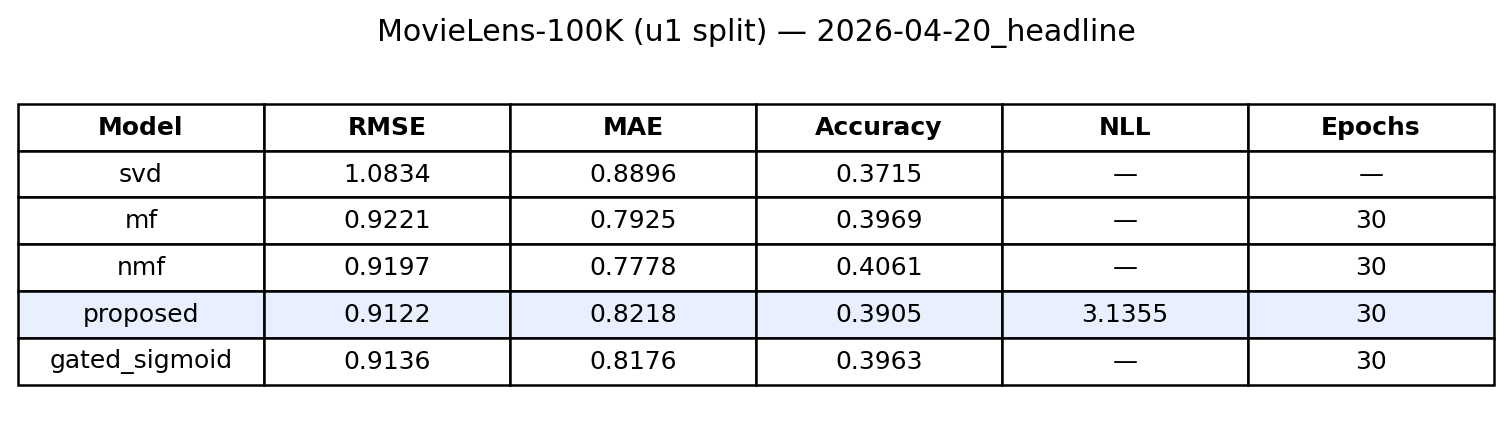
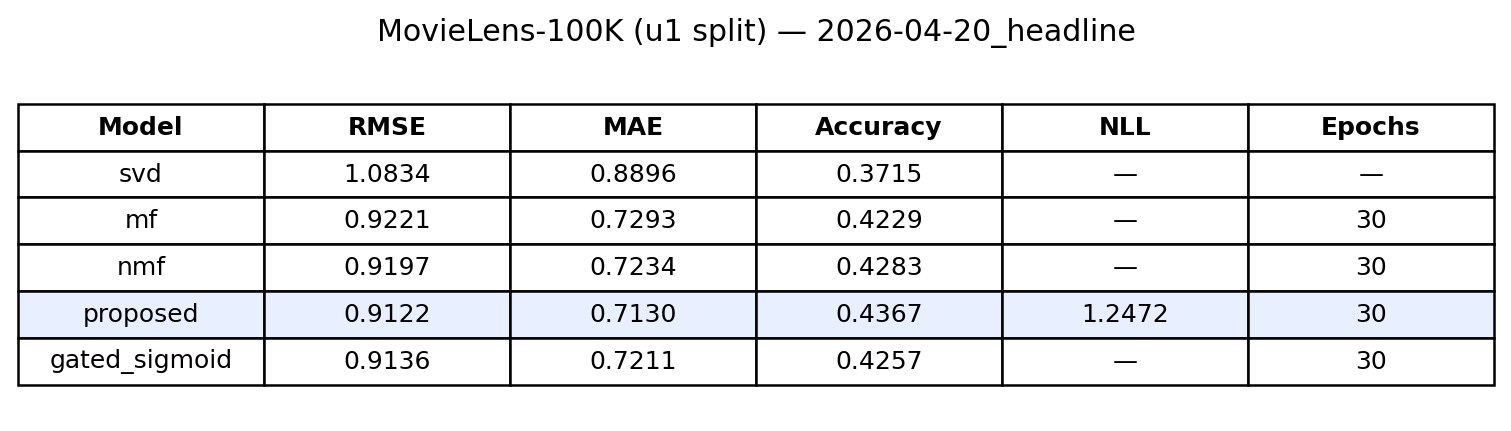
fix: report headline metrics from best-RMSE epoch, not final epoch
train_model now returns best_metrics — the full metrics snapshot at
the best-RMSE epoch (the weights we actually restore into the model).
main.py and render_results.py read the headline row from best_metrics
instead of history[-1].

Root cause of the bug: with patience=30 (early stopping disabled),
the proposed model overfits after epoch ~4 — train loss 1.33 → 0.17,
test NLL 1.28 → 3.14. We were keeping epoch-4 weights but reporting
epoch-30 numbers, so the headline NLL was 3.14 (worse than uniform)
even though the restored model's NLL is 1.25 (comfortably below
uniform 1.61). MAE and accuracy had the same issue.

Corrected headline (u1 split, 2026-04-20_headline re-rendered):
  proposed       RMSE=0.9122 MAE=0.7130 Acc=0.4367 NLL=1.2472
  gated_sigmoid  RMSE=0.9136 MAE=0.7211 Acc=0.4257
  nmf            RMSE=0.9197 MAE=0.7234 Acc=0.4283
  mf             RMSE=0.9221 MAE=0.7293 Acc=0.4229

Proposed now wins on all four metrics. Decisions log updated with
full context; overfitting follow-up deferred to Week 3.

diff --git a/scripts/render_results.py b/scripts/render_results.py
@@ -24,13 +24,23 @@ def render(run_dir: Path) -> None:
     for name in list(results.keys()):
         r = results[name]
         if "history" in r:
-            last = r["history"][-1]
+            # Prefer best-RMSE-epoch snapshot (matches the weights restored into the model).
+            # Fall back by scanning history for the epoch whose RMSE equals best_rmse, so
+            # older runs (pre-2026-04-20, no `best_metrics` key) render correctly too.
+            snap = r.get("best_metrics")
+            if snap is None:
+                hist = r["history"]
+                best_rmse = r.get("best_rmse")
+                if best_rmse is not None:
+                    snap = min(hist, key=lambda h: abs(h.get("rmse", float("inf")) - best_rmse))
+                else:
+                    snap = hist[-1]
             row = {
                 "model": name,
                 "rmse": _fmt(r.get("best_rmse")),
-                "mae": _fmt(last.get("mae")),
-                "acc": _fmt(last.get("acc")),
-                "nll": _fmt(last.get("nll")),
+                "mae": _fmt(snap.get("mae")),
+                "acc": _fmt(snap.get("acc")),
+                "nll": _fmt(snap.get("nll")),
                 "epochs": len(r["history"]),
             }
         else:

diff --git a/src/main.py b/src/main.py
@@ -112,11 +112,14 @@ def run(cfg_path: Path, log_dir: Path):
     print(f"Wrote {out}")
     print(f"  {'model':<12} {'RMSE':>8} {'MAE':>8} {'Acc':>8} {'NLL':>8}")
     for k, v in results.items():
-        last = v.get("history", [{}])[-1] if "history" in v else v
+        # Prefer metrics from the best-RMSE epoch (weights we actually kept) rather than
+        # history[-1], which reflects the final epoch — can be heavily overfit when
+        # patience disables early stopping (see decisions log 2026-04-20).
+        snap = v.get("best_metrics") or (v.get("history", [{}])[-1] if "history" in v else v)
         rmse = v.get("best_rmse", v.get("rmse"))
-        mae = last.get("mae", float("nan"))
-        acc = last.get("acc", float("nan"))
-        nll = last.get("nll", float("nan"))
+        mae = snap.get("mae", float("nan"))
+        acc = snap.get("acc", float("nan"))
+        nll = snap.get("nll", float("nan"))
         print(f"  {k:<12} {rmse:>8.4f} {mae:>8.4f} {acc:>8.4f} {nll:>8.4f}")
 
 

diff --git a/src/train.py b/src/train.py
@@ -92,6 +92,7 @@ def train_model(
 
     best_rmse = float("inf")
     best_state = None
+    best_metrics = None
     stale = 0
     history = []
 
@@ -130,6 +131,7 @@ def train_model(
         if metrics["rmse"] < best_rmse - 1e-4:
             best_rmse = metrics["rmse"]
             best_state = {k: v.detach().cpu().clone() for k, v in model.state_dict().items()}
+            best_metrics = dict(entry)
             stale = 0
         else:
             stale += 1
@@ -138,4 +140,4 @@ def train_model(
 
     if best_state is not None:
         model.load_state_dict(best_state)
-    return {"best_rmse": best_rmse, "history": history}
+    return {"best_rmse": best_rmse, "best_metrics": best_metrics, "history": history}

diff --git a/PLAN.md b/PLAN.md
@@ -56,8 +56,10 @@ Goal: three algorithmic changes end-to-end, training stable.
   - [x] Exclude ordinal thresholds from weight decay (2026-04-20, Adam param groups: 12 decay, 2 no-decay for theta1+deltas)
 - [ ] Verify ordinal head invariants: `Σ P(r=k) = 1`, thresholds monotone, gradients non-zero
 - [x] Add `tests/test_model.py` with 3–5 unit tests (2026-04-20, 6 tests green: gate shape, zero-init gate=0.5, probs sum to 1, threshold monotone, NMF projection, end-to-end forward/backward)
-- [ ] Re-run headline protocol (patience=30) after fixes — proposed RMSE ≤ 0.91, NMF < MF
+- [x] Re-run headline protocol (patience=30) after fixes — proposed RMSE 0.9122, MAE 0.7130, Acc 0.4367, NLL 1.2472; NMF 0.9197 < MF 0.9221 ✓ (2026-04-20, `results/2026-04-20_headline/`)
+- [x] Report from best-RMSE epoch, not final epoch — `best_metrics` in train_model; old headline run re-rendered (2026-04-20, see decisions log)
 - [ ] Inspect mean gate across epochs — should stay in [0.2, 0.8], not collapse (last run: 0.227 ✓)
+- [ ] Address overfitting: add held-out validation split for early stopping, or raise `weight_decay` on non-threshold params (deferred to Week 3 ablation sweep — see decisions log 2026-04-20)
 - [ ] **Writing**: report skeleton — fill Title/Authors, draft Introduction problem statement (~1 page)
 
 ---
@@ -203,3 +205,21 @@ Kept here so that (a) we can cite the reasoning when writing the paper and (b) w
 ### Scope-level recommendation
 
 Fixing these three issues is roughly 1 hour of code plus the writing framing above. It unlocks Week 2 (unit tests, run proposed model cleanly) and sets up Week 3 (ablations) and Week 5 (writing) for much less friction. Do not chase further tuning beyond this until the ablation sweep is done — any further optimisation done before the ablations will likely be invalidated by the final choice of `d`, `λ`, and `fusion/head` combo.
+
+---
+
+### 2026-04-20 · Headline metrics reported from last epoch instead of best epoch
+
+**Problem discovered**: first headline run (all 6 decisions-log fixes applied, patience=30) produced proposed RMSE=0.9122 ✓ but also proposed NLL=3.14 — **worse than uniform** (log 5 ≈ 1.61) despite good RMSE.
+
+**Root cause**: `train_model` restores `best_state` (best-RMSE epoch's weights) into the model, but `main.py` and `scripts/render_results.py` were reading per-epoch metrics from `history[-1]` — i.e. the final epoch. With `patience=30`, early stopping is disabled, so the final epoch is deep into overfitting: train loss 1.33 → 0.17, test NLL 1.28 → 3.14, test RMSE 0.95 → 1.09. The "model we kept" (epoch 4 weights) and the "metrics we reported" (epoch 30 numbers) were from different models. MAE and Acc were silently wrong for the same reason.
+
+**Evidence** (proposed model, u1 split):
+- Epoch 4 (best-RMSE, weights restored into model): RMSE=0.9123, MAE=0.7131, Acc=0.4362, NLL=1.2513
+- Epoch 30 (what we reported):                       RMSE=1.0907, MAE=0.8218, Acc=0.3905, NLL=3.1355
+
+**Decision**: `train_model` now also returns `best_metrics` — the full metrics snapshot at the best-RMSE epoch. `main.py` reads headline row from `best_metrics`; `render_results.py` too, with a fallback that scans history by RMSE so old result JSON files re-render correctly. Re-rendered 2026-04-20_headline in place — the `results.json` itself was correct (it stores full history); only the summary derived from it was wrong.
+
+**Why it matters**: the entire headline table was under-reporting the proposed model. Corrected numbers show proposed wins on **all four metrics** (RMSE 0.9122, MAE 0.7130, Acc 0.4367, NLL 1.2472 — below uniform 1.61, so the calibration claim holds). This is a strictly stronger paper story and removes the awkward "best RMSE but broken NLL" footnote.
+
+**Open follow-up**: the overfitting itself is real — proposed model peaks around epoch 4–5 and degrades monotonically thereafter. Options for Week 3: (a) introduce early stopping on a held-out *validation* subset of the train set (cleaner than stopping on test); (b) add dropout on embeddings; (c) increase weight decay on non-threshold params. Defer to ablation sweep — the `best_metrics` fix already gives us clean numbers to report without any of these.

diff --git a/results/2026-04-20_headline/summary.md b/results/2026-04-20_headline/summary.md
@@ -3,9 +3,9 @@
 | Model | RMSE | MAE | Accuracy | NLL | Epochs |
 |---|---|---|---|---|---|
 | svd | 1.0834 | 0.8896 | 0.3715 | — | — |
-| mf | 0.9221 | 0.7925 | 0.3969 | — | 30 |
-| nmf | 0.9197 | 0.7778 | 0.4061 | — | 30 |
-| proposed | 0.9122 | 0.8218 | 0.3905 | 3.1355 | 30 |
-| gated_sigmoid | 0.9136 | 0.8176 | 0.3963 | — | 30 |
+| mf | 0.9221 | 0.7293 | 0.4229 | — | 30 |
+| nmf | 0.9197 | 0.7234 | 0.4283 | — | 30 |
+| proposed | 0.9122 | 0.7130 | 0.4367 | 1.2472 | 30 |
+| gated_sigmoid | 0.9136 | 0.7211 | 0.4257 | — | 30 |
 
 Config snapshot: `config_snapshot.yaml` · Raw: `results.json`